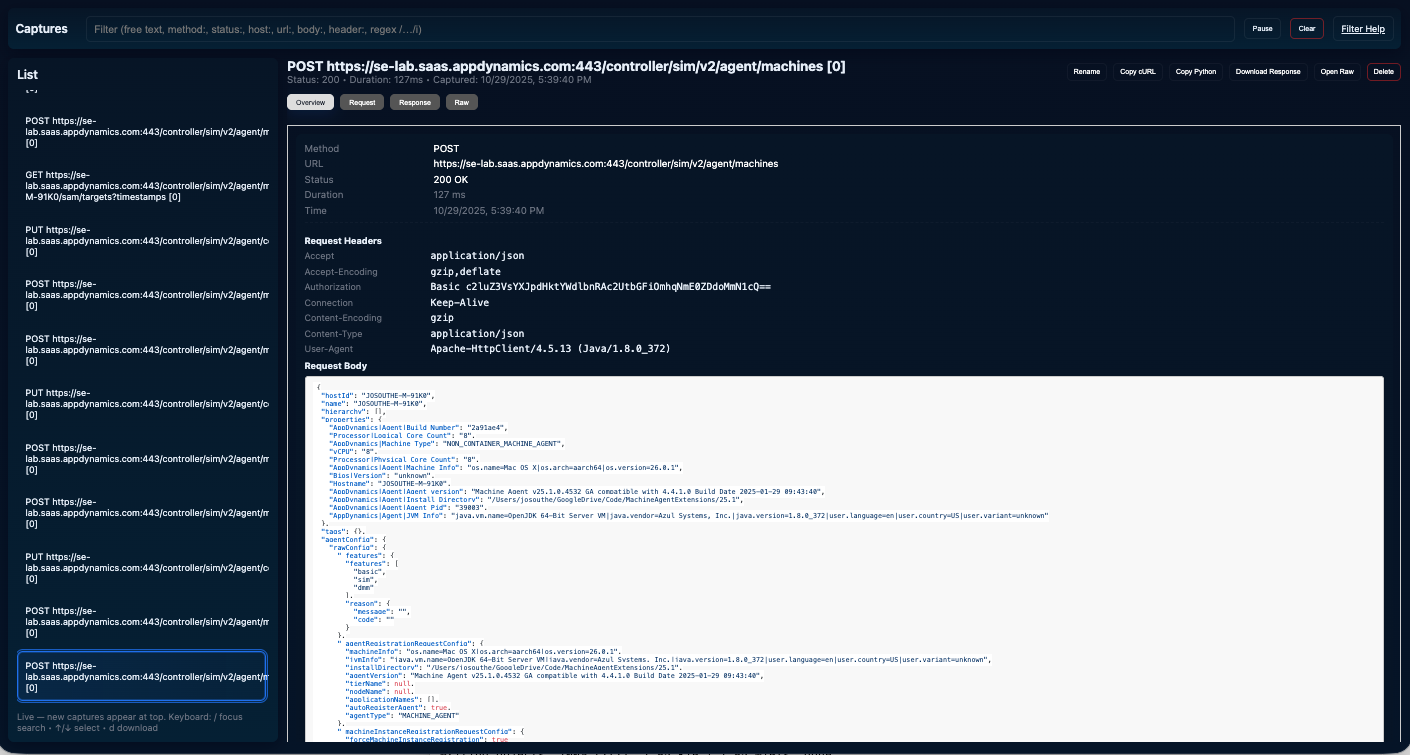
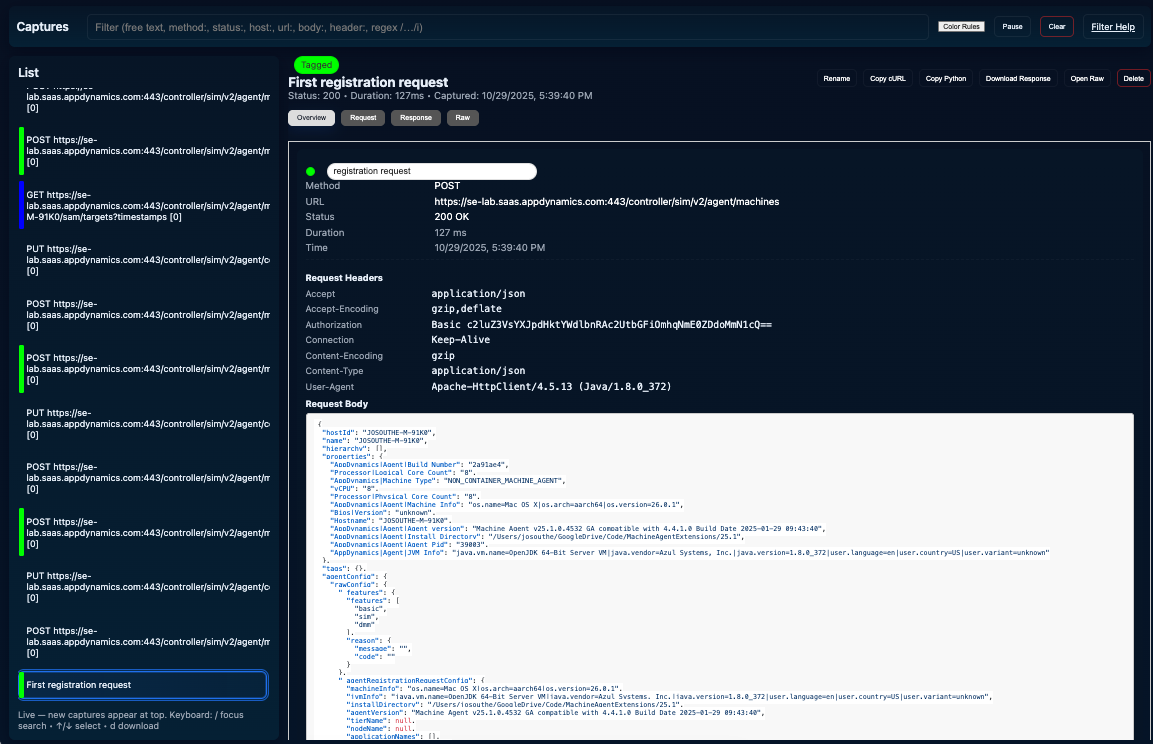
updated docs

diff --git a/README.md b/README.md
@@ -1,7 +1,9 @@
 
 **HTTP Breakout Proxy** is a lightweight, cross-platform HTTP/HTTPS interception proxy implemented in Go with an embedded real-time web interface for capture inspection and manipulation. It is intended for diagnostic and development use: debugging API clients, inspecting integrations, and interactively replaying or exporting captured requests/responses.
 
-![Web App](doc_images/Main-page.png)
+![Web App](doc_images/Main-page.png) 
+
+![Color Rules](doc_images/color_modal.png)
 ---
 
 ## Features
@@ -13,6 +15,7 @@
 - Request/response inspection with automatic decompression (gzip/deflate) for display.
 - Advanced filter language (plain text, keyed prefixes, and `/regex/flags`).
 - Capture management: rename, delete, clear, pause/resume capture collection.
+- Color tagging based on custom search rules
 - Export helpers: copy as `curl`, copy as Python `requests`, download raw response body.
 - Simple REST API for automation and integration.
 
